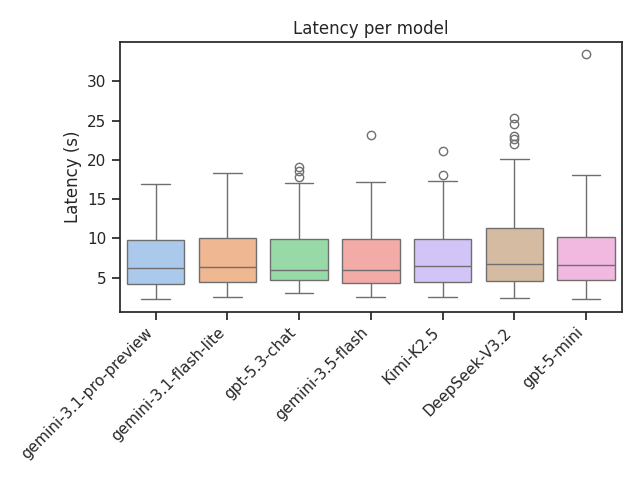
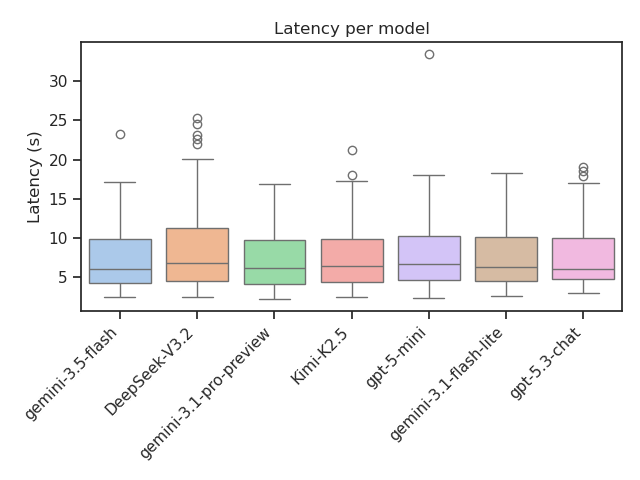
update boxplot script

diff --git a/report/functions/boxplot.py b/report/functions/boxplot.py
@@ -8,16 +8,15 @@ sns.set_theme(style="ticks", palette="pastel")
 
 path = ""
 
+INDEX_MODEL = 0
+INDEX_TASK = 1
+
 if sys.argv[1]:
     path = sys.argv[1]
 else:
     path = "benchmark/"
 
-files = Path(path).rglob("*.jsonl")
-latencies_by_group = {}
-for file in files:
-    parts = file.parts[1:] if file.parts[0] == "benchmark" else file.parts
-    group = parts[0]
+def get_latencies_in_file(file: Path) -> list:
     latencies = []
     with open(file) as f:
         data = json.load(f)
@@ -25,15 +24,62 @@ for file in files:
             for run in data['runs']:
                 if 'latency' in run:
                     latencies.append(run['latency'])
+    return latencies
 
-    if group not in latencies_by_group:
-        latencies_by_group[group] = latencies
+
+files = Path(path).rglob("*.jsonl")
+latencies_by_model = {}
+latencies_by_task_by_model = {}
+for file in files:
+    parts = file.parts[1:] if file.parts[0] == "benchmark" else file.parts
+    model = parts[INDEX_MODEL]
+    task = parts[INDEX_TASK]
+
+    latencies = get_latencies_in_file(file)
+
+    if task not in latencies_by_task_by_model:
+        latencies_by_task_by_model[task] = {model: latencies}
     else:
-        latencies_by_group[group] += latencies
+        by_task = latencies_by_task_by_model[task]
+        # Make sure we don't have duplicates
+        assert model not in by_task
+        by_task[model] = latencies
 
-sns.boxplot(data=latencies_by_group)
+    if model not in latencies_by_model:
+        latencies_by_model[model] = latencies
+    else:
+        latencies_by_model[model] += latencies
+
+tasks = list(latencies_by_task_by_model.keys())
+models = list(latencies_by_task_by_model["Back_forth"].keys())
+
+# Validate data
+assert(len(latencies_by_model.keys()) == len(models))
+for model in models:
+    assert(len(latencies_by_model[model]) == 20 * len(tasks))
+
+for task in tasks:
+    assert(len(latencies_by_task_by_model[task]) == len(models))
+
+sns.boxplot(data=latencies_by_model)
 plt.xticks(rotation=45, ha='right')
 plt.tight_layout(rect=[0, 0, 1, 0.95])
 plt.title("Latency per model")
 plt.ylabel("Latency (s)")
 plt.savefig("images/boxplot.png")
+plt.clf()
+
+print("=================")
+print(f"Found tasks: {tasks}")
+print(f"Found models: {models}")
+
+for task in tasks:
+    task_name = " ".join(task.split("_"))
+
+    plt.title(f"Latency per model ({task_name})")
+    sns.boxplot(data=latencies_by_task_by_model[task])
+    plt.xticks(rotation=45, ha='right')
+    plt.tight_layout(rect=[0, 0, 1, 0.95])
+    plt.ylabel("Latency (s)")
+    plt.savefig(f"images/boxplot_{task}.png")
+    plt.clf()
